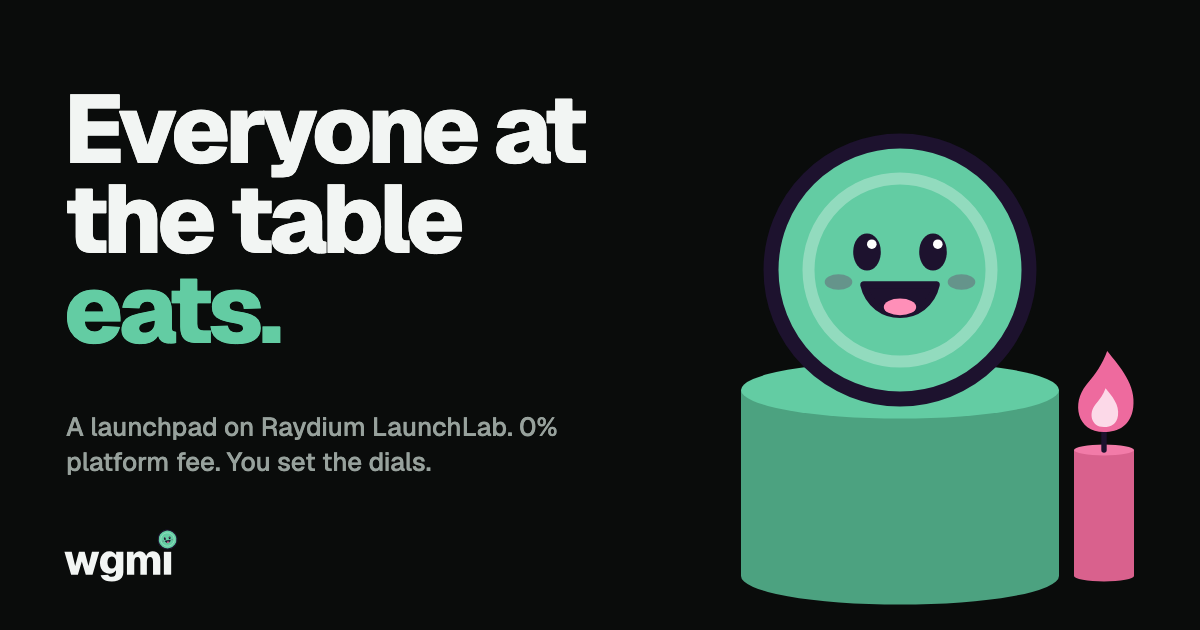
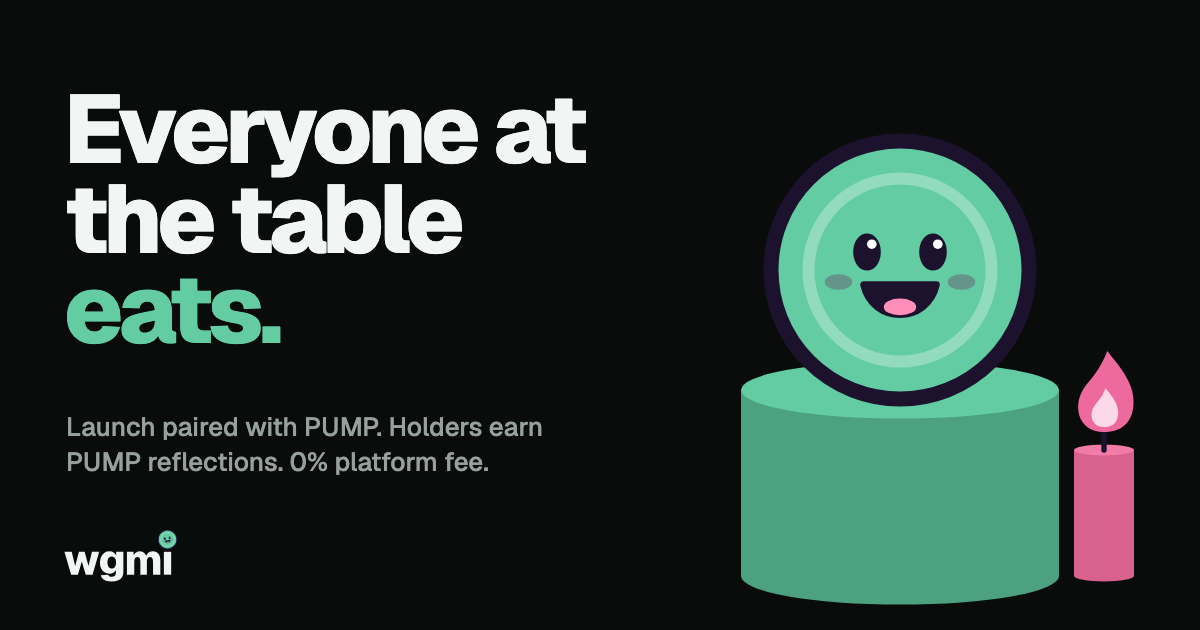
wgmi.work: "Launch paired with PUMP · holders earn PUMP reflections" in the hero and the link preview; "a launchpad on Raydium LaunchLab" gone from the hero, the footer and the docs

Changed region(s): [[0.0308, 0.6635, 0.4625, 0.754]]

diff --git a/index.html b/index.html
@@ -5,17 +5,17 @@
 <script>try{var t=localStorage.getItem("wgmi.theme");if(t==="dark"||t==="light")document.documentElement.dataset.theme=t}catch(e){}</script>
 <meta name="viewport" content="width=device-width, initial-scale=1">
 <title>WGMI · Launch with your rules</title>
-<meta name="description" content="WGMI: a launchpad on Raydium LaunchLab (Solana). 0% platform fee, the cheapest a LaunchLab curve can be, 600+ pairs, any payout asset, and ten dials the dev sets.">
+<meta name="description" content="WGMI: a launchpad on Solana. Launch paired with PUMP and pay your holders PUMP reflections, or pick any of 600+ pairs and any payout asset. 0% platform fee, ten dials the dev sets.">
 <meta name="theme-color" content="#0A0C0B">
 <link rel="canonical" href="https://wgmi.work/">
 <meta property="og:type" content="website">
 <meta property="og:url" content="https://wgmi.work/">
 <meta property="og:title" content="WGMI · the house takes almost nothing and everyone at the table eats">
-<meta property="og:description" content="0% platform fee: the cheapest a LaunchLab curve can be. 600+ pairs, any payout asset, ten dials the dev sets.">
+<meta property="og:description" content="Launch paired with PUMP, holders earn PUMP reflections. 0% platform fee, 600+ pairs, any payout asset, ten dials the dev sets.">
 <meta property="og:image" content="https://wgmi.work/og.png">
 <meta name="twitter:card" content="summary_large_image">
 <meta name="twitter:title" content="WGMI · the house takes almost nothing and everyone at the table eats">
-<meta name="twitter:description" content="0% platform fee: the cheapest a LaunchLab curve can be. 600+ pairs, any payout asset, ten dials the dev sets.">
+<meta name="twitter:description" content="Launch paired with PUMP, holders earn PUMP reflections. 0% platform fee, 600+ pairs, any payout asset, ten dials the dev sets.">
 <meta name="twitter:image" content="https://wgmi.work/og.png">
 <link rel="icon" type="image/png" sizes="16x16" href="logo/wgmi-tab-16.png">
 <link rel="icon" type="image/png" sizes="32x32" href="logo/wgmi-tab-32.png">
@@ -243,7 +243,7 @@
   <div class="wrap">
     <section class="hero" style="padding-top:32px">
       <div>
-        <p class="eyebrow"><svg><use href="#pip"/></svg> Launchpad on Raydium LaunchLab · Solana</p>
+        <p class="eyebrow"><svg><use href="#pip"/></svg> Launch paired with PUMP · holders earn PUMP reflections</p>
         <h1>Everyone at the table <em>eats.</em></h1>
         <p class="sub">Launch on Solana with your own rules. <b>Ten dials</b> the dev sets, <b>600+ pairs</b>, any payout asset, <b>0% platform fee</b>. The house eats last.</p>
         <div class="cta">
@@ -278,7 +278,7 @@
     </section>
 
     <section class="glance" aria-label="At a glance">
-      <div class="chip"><b>0% platform fee</b><span>0.75% all-in on the curve: the cheapest a LaunchLab curve can be.</span></div>
+      <div class="chip"><b>0% platform fee</b><span>0.75% all-in on the curve. The platform takes nothing.</span></div>
       <div class="chip"><b>600+ pairs</b><span>SOL, USDC, gold, stocks, memes. Buyers can pay in SOL for any of them.</span></div>
       <div class="chip"><b>Any payout asset</b><span>holders paid in whatever Jupiter routes, by the rule you pick.</span></div>
       <div class="chip"><b>Ten dials</b><span>the pair, the tax, what it buys, who gets paid, and six more.</span></div>
@@ -445,7 +445,7 @@
   <div class="wrap">
     <div class="row">
       <a class="brand" href="#top" aria-label="WGMI"><img class="word word-light" src="logo/wgmi-wordmark.svg" alt="WGMI"><img class="word word-dark" src="logo/wgmi-wordmark-dark.svg" alt="" aria-hidden="true"></a>
-      <span>wgmi.work · a launchpad on Raydium LaunchLab, Solana</span>
+      <span>wgmi.work · a launchpad on Solana</span>
     </div>
     <p>The engine is an operator-run service: the snapshot, the rule and the sends are off-chain code, and every epoch is published as a ledger with its transaction signatures. Raydium's 0.25% on the curve and the pool tier's liquidity fee remain on every trade.</p>
   </div>

diff --git a/docs/index.html b/docs/index.html
@@ -22,7 +22,7 @@ ol,ul{padding-left:22px}li{margin:4px 0}
 <body><main>
 <div class="nav"><a href="/"><img class="word word-light" src="/logo/wgmi-wordmark.svg" alt="WGMI"><img class="word word-dark" src="/logo/wgmi-wordmark-dark.svg" alt="" aria-hidden="true"></a><a href="/">Home</a><a href="/app/">Launch a token</a><a href="/app/#/tokens">Tokens</a><button class="toggle" type="button" onclick="var r=document.documentElement;var d=r.dataset.theme==='light'?'dark':'light';r.dataset.theme=d;try{localStorage.setItem('wgmi.theme',d)}catch(e){};dispatchEvent(new Event('wgmi-theme'))" aria-label="Switch light and dark">Light / dark</button></div>
 <h1>How WGMI works</h1>
-<p>WGMI is a launchpad on Raydium LaunchLab (Solana). The dev launching a token sets three dials that other launchpads hard-code: the transfer tax, what the tax buys, and the rule that pays holders. An engine runs the payouts every epoch and publishes every step. Everything on this page is what the program and the engine actually do; the verified claims with proof links are on the <a href="/#claims">home page</a>.</p>
+<p>WGMI is a launchpad on Solana. The dev launching a token sets three dials that other launchpads hard-code: the transfer tax, what the tax buys, and the rule that pays holders. An engine runs the payouts every epoch and publishes every step. Everything on this page is what the program and the engine actually do; the verified claims with proof links are on the <a href="/#claims">home page</a>.</p>
 
 <h2>Launching</h2>
 <div class="card"><ol>
@@ -94,5 +94,5 @@ ol,ul{padding-left:22px}li{margin:4px 0}
 <li>Not trustless: the engine is an operator-run service. The snapshot, the rule and the sends are off-chain code with a published ledger.</li>
 <li>Not free of fees: Raydium's 0.25% on the curve and the pool tier's fee remain.</li>
 <li>Not audited. Nothing is guaranteed; a token's tax can only be withdrawn, converted and paid as described, and every epoch can be checked against the ledger.</li></ul></div>
-<p class="muted">wgmi.work · a launchpad on Raydium LaunchLab, Solana</p>
+<p class="muted">wgmi.work · a launchpad on Solana</p>
 </main></body></html>
